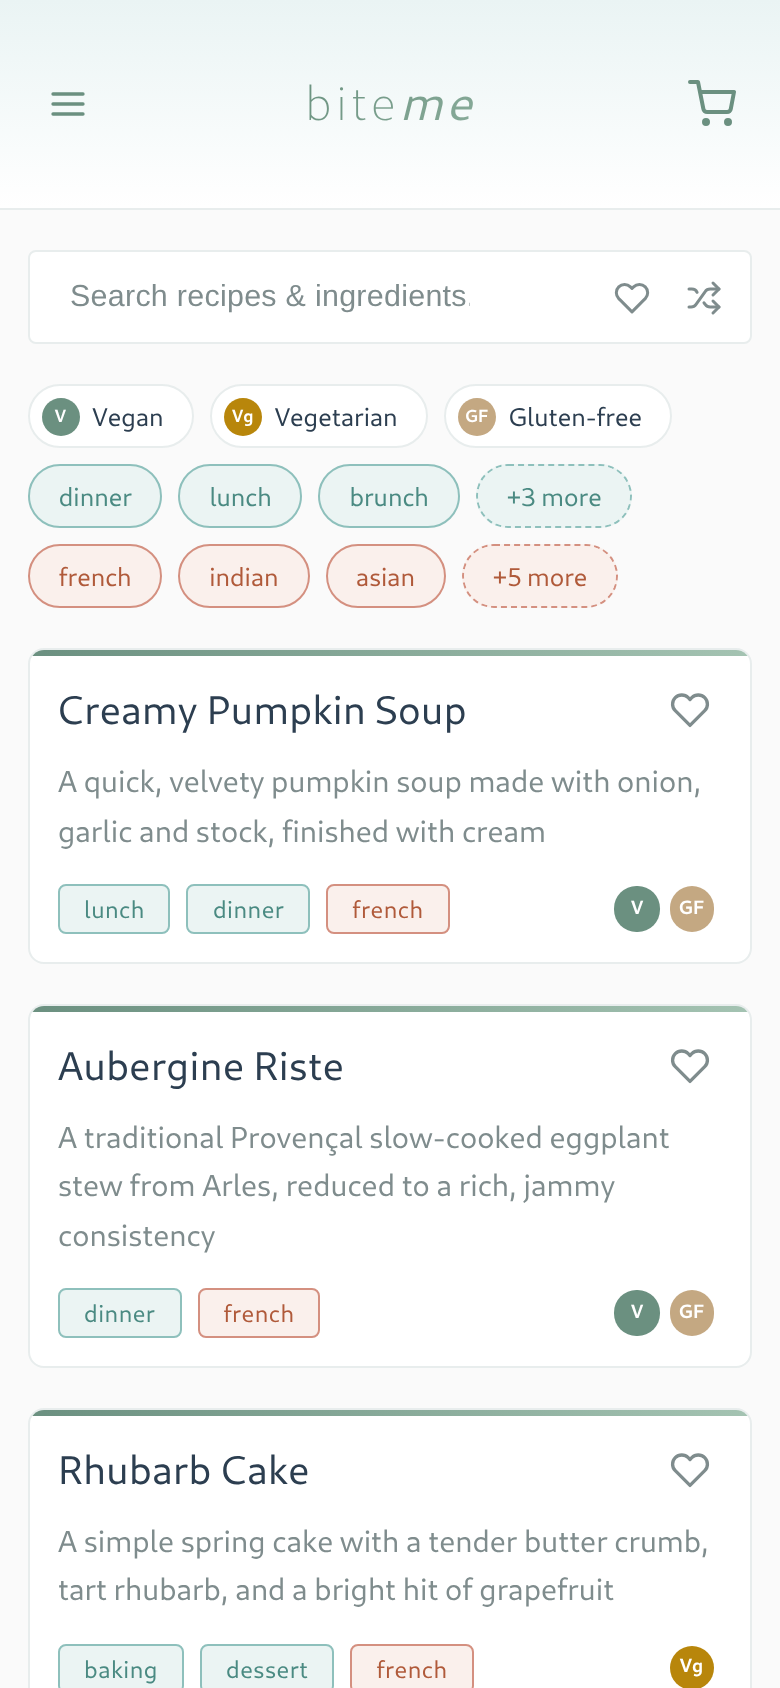
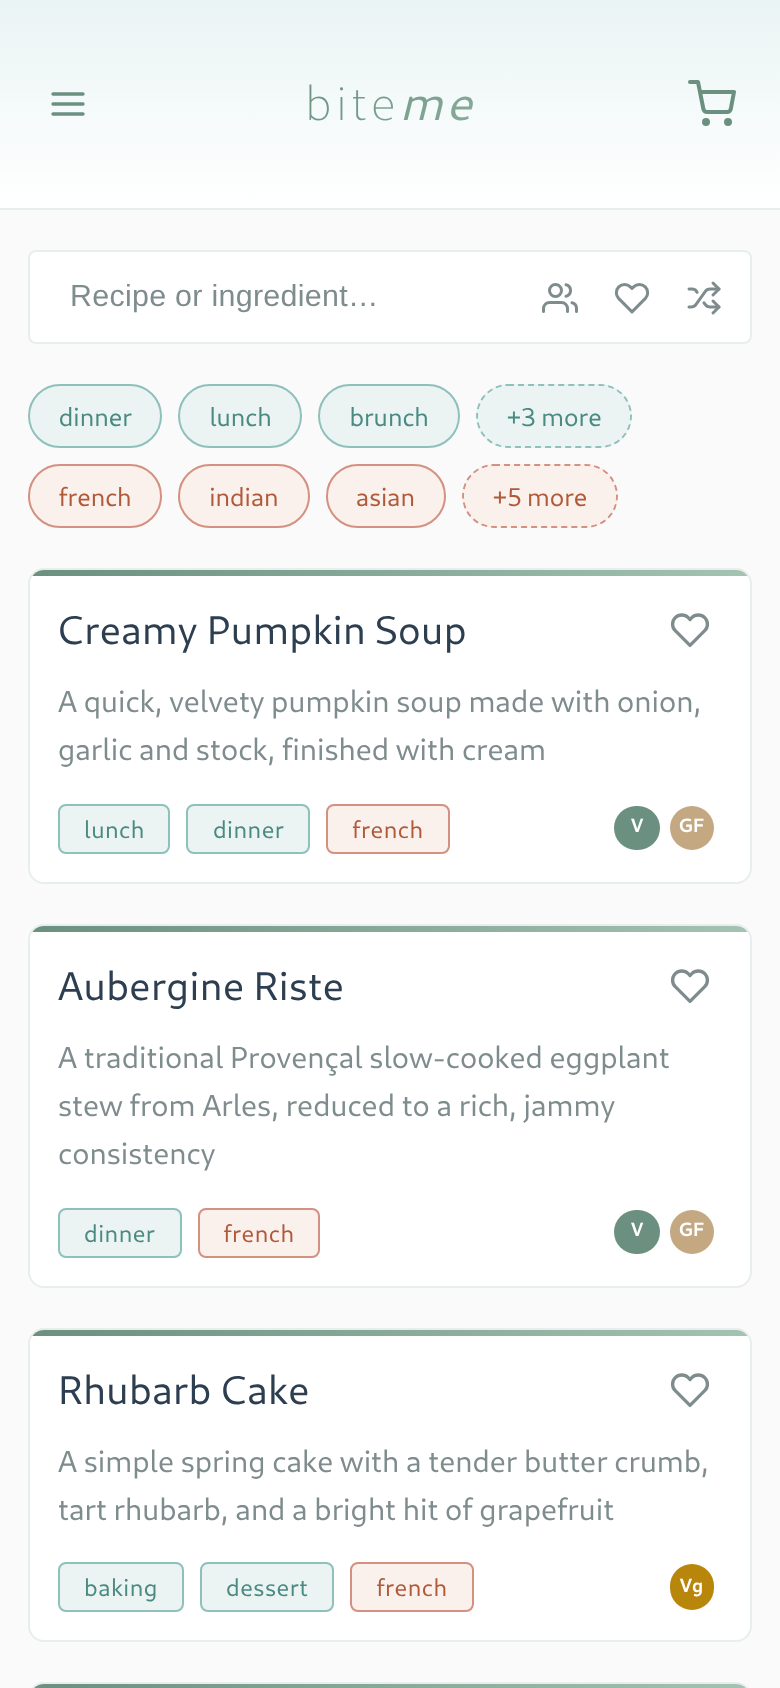
feat(friends): one-tap select for a single friend in the cooking-for sheet

diff --git a/docs/js/app.js b/docs/js/app.js
@@ -305,18 +305,33 @@ function renderFriendOptions() {
   const list = document.getElementById('friend-options');
   document.getElementById('no-friends').hidden = friends.length > 0;
   list.innerHTML = friends.map(f => `
-    <li>
+    <li class="friend-option-row">
       <label class="friend-option">
         <input type="checkbox" data-id="${f.id}" ${activeFriendIds.includes(f.id) ? 'checked' : ''}>
         <span class="friend-option-name">${escapeHtml(f.name)}</span>
         ${renderDietIcons(f.diets)}
         ${f.avoid.length > 0 ? `<span class="friend-option-avoid">no ${escapeHtml(f.avoid.join(', '))}</span>` : ''}
       </label>
+      <button class="friend-only" data-id="${f.id}" aria-label="Cook for ${escapeHtml(f.name)} only">
+        ${icon('chevron-right', 20)}
+      </button>
     </li>
   `).join('');
   list.querySelectorAll('input').forEach(input => {
     input.addEventListener('change', () => toggleFriend(input.dataset.id));
   });
+  list.querySelectorAll('.friend-only').forEach(btn => {
+    btn.addEventListener('click', () => selectOnlyFriend(btn.dataset.id));
+  });
+}
+
+// One tap: cook for just this friend and close the sheet
+function selectOnlyFriend(id) {
+  activeFriendIds = [id];
+  activeDiets = [];
+  updateFilterURL();
+  loadRecipes();
+  closeCookingFor();
 }
 
 function openCookingFor() {

diff --git a/tests/friends.spec.js b/tests/friends.spec.js
@@ -176,6 +176,23 @@ test.describe('Cooking for', () => {
     await expect(page.locator('#cooking-for-bar')).toBeHidden();
   });
 
+  test('one tap on a friend\'s arrow cooks for just them and closes the sheet', async ({ page }) => {
+    await seedFriends(page, [
+      { name: 'Luna', diets: ['vegan', 'gluten-free'], avoid: [] },
+      { name: 'Milena', diets: ['vegan'], avoid: ['tomato'] },
+    ]);
+
+    // Milena ticked and a plain diet picked first; the arrow replaces both
+    await page.locator('#cooking-for-btn').click();
+    await friendOption(page, 'Milena').check();
+    await page.locator('#diet-chips .chip[data-value="vegetarian"]').click();
+    await page.locator('.friend-only[aria-label="Cook for Luna only"]').click();
+
+    await expect(page.locator('#cooking-for-sheet')).toBeHidden();
+    await expect(page.locator('#cooking-for-bar .cooking-for-label')).toHaveText('Cooking for Luna');
+    await expect(page.locator('.recipe-title')).toHaveText(['Test Salad']);
+  });
+
   test('sheet with no friends invites adding them', async ({ page }) => {
     await page.locator('#cooking-for-btn').click();
     await expect(page.locator('#no-friends')).toBeVisible();

diff --git a/docs/css/style.css b/docs/css/style.css
@@ -192,7 +192,7 @@ main {
 #search-input {
   width: 100%;
   padding: var(--spacing-sm) var(--spacing-md);
-  padding-right: 7.5rem;
+  padding-right: 7rem; /* 3 action buttons (3 × 2rem + gaps + 0.5rem inset) */
   font-size: 0.95rem;
   font-weight: 300;
   color: var(--text-primary);
@@ -696,6 +696,35 @@ a.tag-meal-type {
   list-style: none;
   margin: 0;
   padding: 0;
+}
+
+.friend-option-row {
+  display: flex;
+  align-items: center;
+  border-bottom: 1px solid var(--border);
+}
+
+.friend-option-row .friend-option {
+  flex: 1;
+  border-bottom: none;
+}
+
+.friend-only {
+  display: flex;
+  align-items: center;
+  justify-content: center;
+  flex-shrink: 0;
+  width: 2.75rem;
+  height: 2.75rem;
+  background: none;
+  border: none;
+  border-radius: 50%;
+  color: var(--primary-color);
+  cursor: pointer;
+}
+
+.friend-only:hover {
+  background: var(--accent-light);
 }
 
 .friend-option {

diff --git a/docs/index.html b/docs/index.html
@@ -50,7 +50,7 @@
       <input
         type="search"
         id="search-input"
-        placeholder="Search recipes & ingredients..."
+        placeholder="Recipe or ingredient…"
         aria-label="Search recipes and ingredients"
       >
       <div class="search-actions">

diff --git a/documentation/ROADMAP.md b/documentation/ROADMAP.md
@@ -71,7 +71,7 @@ This document tracks feature ideas and improvements for BiteMe.
 - **Meal Plan** — Weekly meal planner with IDF-weighted greedy recipe selection, seed recipe support, per-recipe servings, swap panel, shared ingredient callout, and per-ingredient cart buttons; active plan mode with cooked-state tracking (auto-synced from cooking sessions + manual toggle); home screen banner shows plan progress; back navigation uses `history.back()` on all sub-pages
 - **Ingredient display improvements** — Preparation text stripped from shopping contexts (shopping list, plan); first letter capitalised; text fractions (`1/2`) used consistently instead of unicode (`½`); attribution removed from merged shopping list view
 - **Diet Filtering** — Vegan / Vegetarian / Gluten-free replace the Settings toggles; combinable; state in the URL so it resets when the app is reopened; vegan counts as vegetarian; diet carried to the recipe page (badges, similar recipes)
-- **Cooking For** — Friends page (name, diets, ingredients to avoid; stored locally, sync-ready); "Cooking for" sheet from the search bar to pick friends or plain diets; recipes must suit everyone selected; summary line with one-tap clear when active; avoided ingredients and diets carried to the recipe page
+- **Cooking For** — Friends page (name, diets, ingredients to avoid; stored locally, sync-ready); "Cooking for" sheet from the search bar to pick friends (one tap for a single friend, checkboxes for several) or plain diets; recipes must suit everyone selected; summary line with one-tap clear when active; avoided ingredients and diets carried to the recipe page
 - **Gluten-Free Version** — Gluten flags per ingredient in `docs/ingredients.json` (`contains` + swap, or `check`); parser rejects gluten-free recipes using unswappable gluten; recipe-page toggle (on with the gluten-free diet) shows swap notes on the recipe, in cooking mode, and on shopping items added while it's on
 - **Dark Mode** — Light/Dark/Auto theme selector in Settings; Auto follows the OS preference via `prefers-color-scheme`; no flash of wrong theme on load (inline script sets `data-theme` before first paint); JS always resolves the theme so CSS only needs `[data-theme="dark"]` selectors
 

diff --git a/documentation/ARCHITECTURE.md b/documentation/ARCHITECTURE.md
@@ -221,6 +221,7 @@ All user data is local-first. Sync is additive, not required.
 **How it works:**
 - A filter is `{ diets, avoid }`. `currentFilter()` in `app.js` combines directly picked diets with the selected friends' diets, and the union of their avoided ingredients — a recipe must work for everyone
 - `matchesFilter()` in `recipes.js` is the single matching rule: every diet satisfied (vegan counts as vegetarian, so recipes are never tagged both — the linter rejects it) and no avoided canonical ingredient
+- In the sheet, a checkbox per friend combines several; the arrow next to each name selects only that friend and closes the sheet in one tap (the usual case: cooking for one person)
 - Avoided ingredients hide recipes (right for allergies); they're picked from `ingredients.json` canonicals so matching is exact
 - `viewRecipe()` carries the derived filter to the recipe page via `filterQuery()` (`&diet=…&avoid=…`); similar recipes respect it, and a gluten-free diet switches on the recipe's gluten-free version
 - Friends are stored locally in IndexedDB with sync-ready fields (random ID, `updated_at`, soft-delete `deleted_at`) for a future backend
